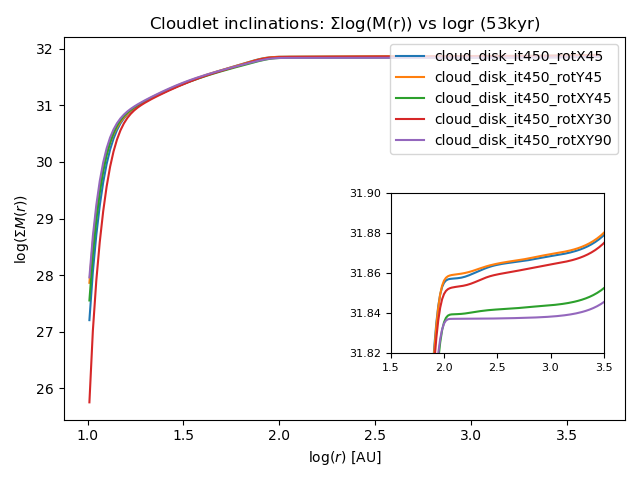
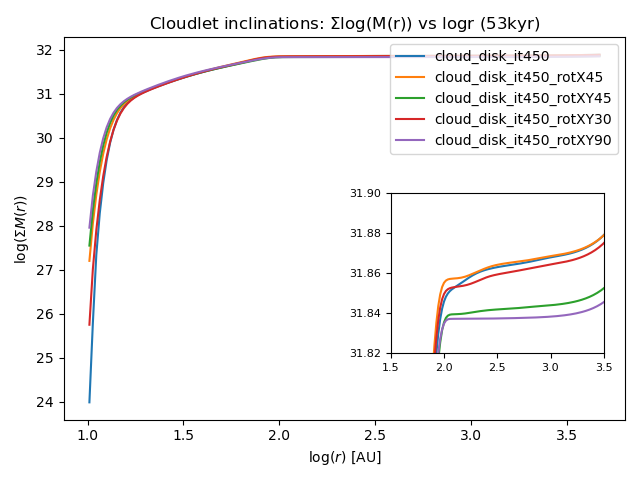
added no incline plots

diff --git a/mass_vs_r.py b/mass_vs_r.py
@@ -20,8 +20,8 @@ stoky = 3.156e7 * 1e3     # 1 kyr in sec
 def main():
 
 
-    folder = Path("../cloud_disk_it450_rotY45/")         # Folder with the output files
-    fig_imgs = Path("cloud_disk_it450_rotY45/imgs/")     # Folder to save images
+    folder = Path("../cloud_disk_it450/")         # Folder with the output files
+    fig_imgs = Path("cloud_disk_it450/imgs/")     # Folder to save images
     it = 450                                                       # FARGO snapshot of interest
     sim_name = str(fig_imgs).split('/')[0]                         # Simulation name (for plot labels)
     
@@ -155,7 +155,7 @@ def main():
     ####################### Compare radial mass distributions for different inclinations ########################
 
 
-    inc_folders = [Path("../cloud_disk_it450_rotX45"), Path("../cloud_disk_it450_rotY45"), Path("../cloud_disk_it450_rotXY45"), Path("../cloud_disk_it450_rotXY30"), Path("../cloud_disk_it450_rotXY90")]
+    inc_folders = [Path("../cloud_disk_it450"), Path("../cloud_disk_it450_rotX45"), Path("../cloud_disk_it450_rotXY45"), Path("../cloud_disk_it450_rotXY30"), Path("../cloud_disk_it450_rotXY90")]
 
     shell_mass_allincs = {}
     cum_mass_allincs = {}
@@ -203,6 +203,54 @@ def main():
     fig.tight_layout()
     ax.legend(loc="upper right")   # loc='upper left', 
     plt.savefig('cumlogM_vs_logr_all_incs.png')
+    plt.show()
+
+
+    ####################### Compare radial mass distributions for different cloudlet masses ########################
+
+
+    cmass_folders = [Path("../cloud_disk_it450"), Path("../cloud_disk_it450_cmass01"), Path("../cloud_disk_it450_cmass10")]
+    cmass_labels = {"cloud_disk_it450_cmass01": r"$M_{cloud} / M_{disk} = 0.045$", "cloud_disk_it450_cmass10": r"$M_{cloud} / M_{disk} = 4.5$", "cloud_disk_it450": r"$M_{cloud} / M_{disk} = 0.45$"}
+
+    shell_mass_allcmass = {}
+    cum_mass_allcmass = {}
+
+    for f in cmass_folders:
+        
+        f_sim_name = str(f).split('/')[1]                       # Simulation name (for plot labels)
+        domains = get_domain_spherical(f)                       # Load coordinates
+        f_rho = get_data(f, "dens", it, domains)                # Load 3D array of density values            
+
+        cell_volume = calc_cell_volume(domains["theta"], domains["r"], domains["phi"])
+        f_mass = calc_mass(f_rho, cell_volume)
+
+        # Mass in each spherical shell for a single iteration
+        f_shell_mass = np.sum(f_mass, axis=(0,2))                       # Shell mass in shape (nr-1)
+        shell_mass_allcmass[f_sim_name] = f_shell_mass
+
+        # Cumulative mass in each spherical shell for a single iteration
+        f_M_cumsum = np.cumsum(f_shell_mass)
+        cum_mass_allcmass[f_sim_name] = f_M_cumsum
+
+    fig, ax = plt.subplots()
+    for key, value in shell_mass_allcmass.items():
+        ax.plot(np.log10(domains["r"]/au)[:-1], np.log10(value), label=cmass_labels[key])
+    ax.set_xlabel(r"$\log(r)$ [AU]")
+    ax.set_ylabel(r"$\log(M(r))$ [g]")
+    ax.set_title(f"Cloudlet masses: logM(r) vs logr (53kyr)")
+    ax.legend()
+    plt.savefig('logM_vs_logr_all_cmass.png')
+    plt.show()
+
+    fig, ax = plt.subplots()
+    for key, value in cum_mass_allcmass.items():
+        ax.plot(np.log10(domains["r"]/au)[:-1], np.log10(value), label=key)
+    ax.set_xlabel(r"$\log(r)$ [AU]")
+    ax.set_ylabel(r"$\log(\Sigma M(r))$")
+    ax.set_title(fr"Cloudlet masses: $\Sigma$log(M(r)) vs logr (53kyr)")
+    fig.tight_layout()
+    ax.legend(loc="lower right")   # loc='upper left', 
+    plt.savefig('cumlogM_vs_logr_all_cmass.png')
     plt.show()
 
 
